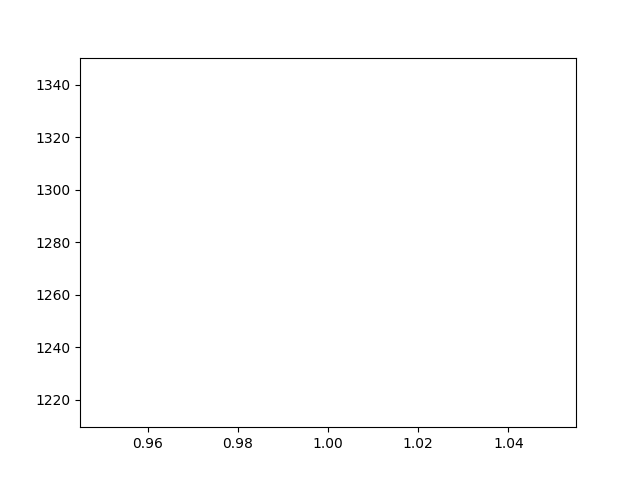
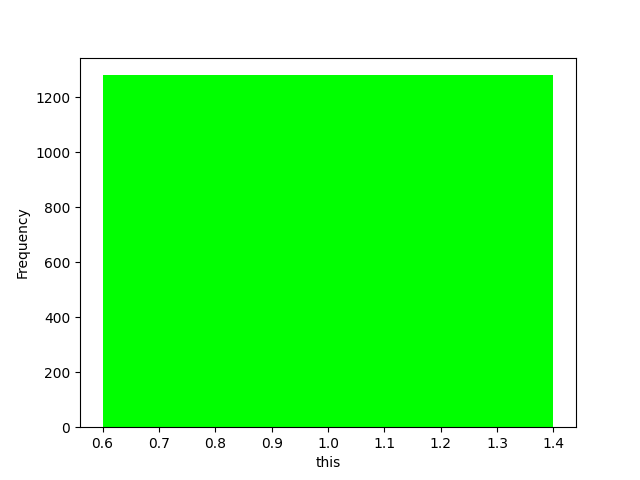
fix(L2:Ex2): replot graph

diff --git a/Lab_2/Exercise1/try.py b/Lab_2/Exercise1/try.py
@@ -9,5 +9,8 @@ freqDist = FreqDist(text1)
 word_freq = freqDist[word]
 x = [1]
 y = [word_freq]
-plt.plot(x, y, label=word)
+print(x, y)
+plt.bar(x, y, color="#00ff00")
+plt.xlabel(word)
+plt.ylabel("Frequency")
 plt.savefig("text1_plot_this")
